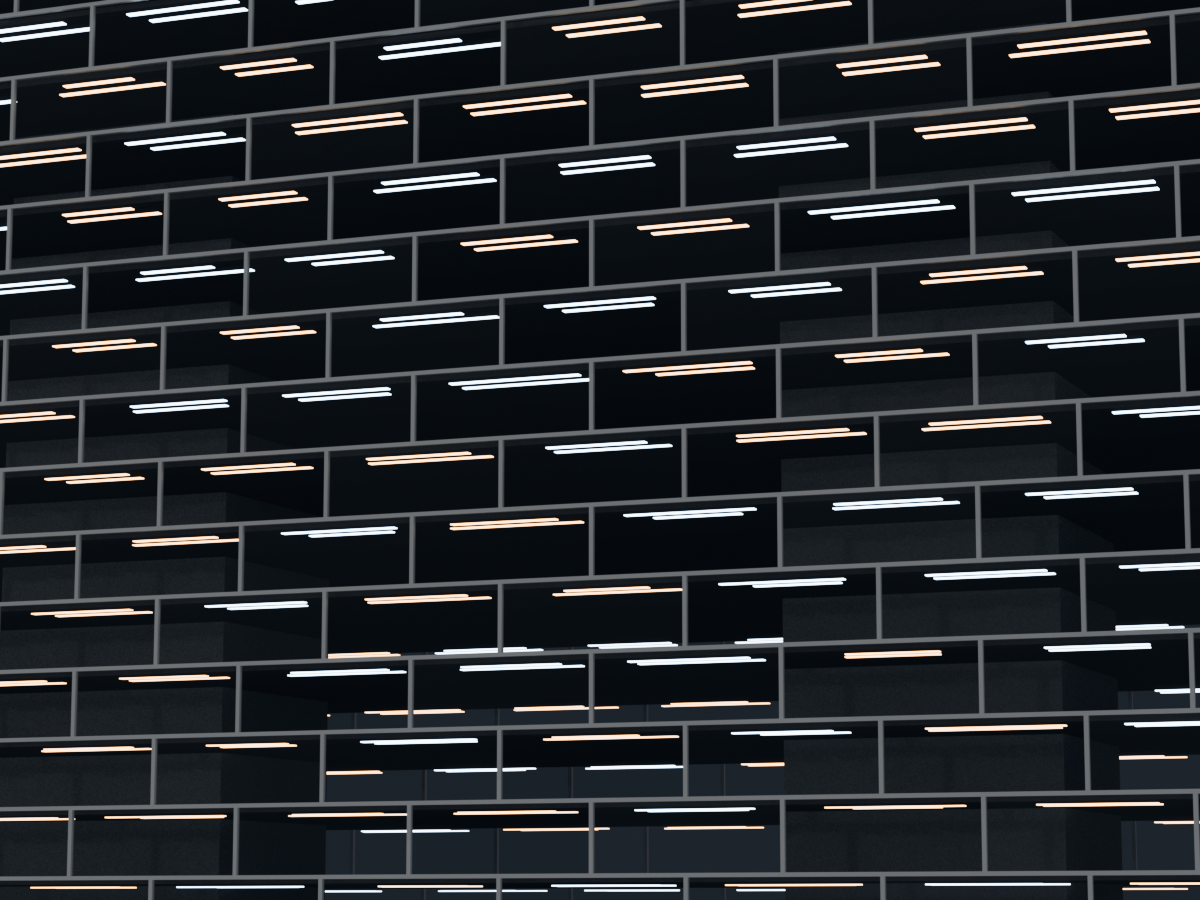
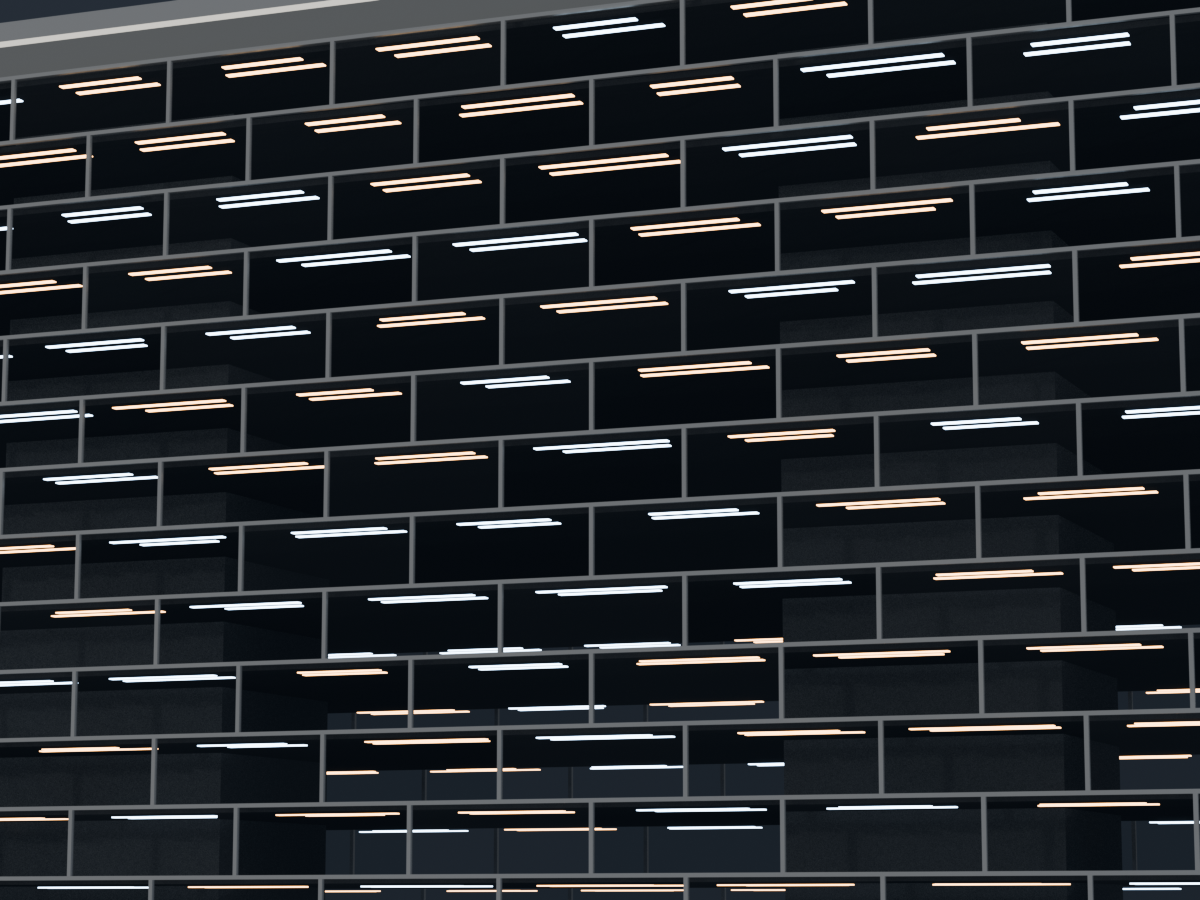
feat: shorten Stack 3 by one lattice tier
The previous change removed a row of X braces but grew the remaining tiers to
fill the fixed 190 m band. This keeps the 31.4 m tier height instead, so the
lower block ends at 158 m and everything above moves down: plaza 158-188,
apartments 188-302, flat roof at 302 m (303.6 m to the parapet). Cores and
corner posts follow the new roof.

diff --git a/verify_stack3.py b/verify_stack3.py
@@ -85,32 +85,32 @@ def main():
             "Lattice", "Plaza", "Apartment")),
         "plan is 108 m wide": abs((x1 - x0) - WIDTH) <= 2 * FACADE_RELIEF,
         "plan is 36 m deep": abs((y1 - y0) - DEPTH) <= 2 * FACADE_RELIEF,
-        "flat roof deck at 334 m": abs(z_span("Roof_Deck")[1] - 334.4) < 0.05,
-        "parapet tops at 335.6 m": abs(z1 - (334.0 + 0.4 + 1.2)) < 0.05,
+        "flat roof deck at 302 m": abs(z_span("Roof_Deck")[1] - 302.4) < 0.05,
+        "parapet tops at 303.6 m": abs(z1 - (302.0 + 0.4 + 1.2)) < 0.05,
         "slab sits on the ground": abs(z0) <= 0.02,
         "facade stays within its relief band": overhang <= FACADE_RELIEF,
-        "lattice glass 0-190 m": abs(z_span("Lattice_Glass")[0] - 0.2) < 0.05
-        and abs(z_span("Lattice_Glass")[1] - 189.8) < 0.05,
+        "lattice glass 0-158 m": abs(z_span("Lattice_Glass")[0] - 0.2) < 0.05
+        and abs(z_span("Lattice_Glass")[1] - 157.8) < 0.05,
         "lattice carries a frame and X braces": (
             present("Lattice_Frame") and present("Lattice_Braces")),
         "lattice braces start above the solid base panels": (
-            75.0 <= z_span("Lattice_Braces")[0] <= 77.0
-            and 189.3 <= z_span("Lattice_Braces")[1] <= 189.8),
+            63.0 <= z_span("Lattice_Braces")[0] <= 64.0
+            and 157.0 <= z_span("Lattice_Braces")[1] <= 157.9),
         "bottom two tiers are framed cells, not X": (
             present("Lattice_Base_Rails")
             and abs(z_span("Lattice_Base_Rails")[0] - 0.0) < 0.05
-            and abs(z_span("Lattice_Base_Rails")[1] - 76.7) < 0.8),
+            and abs(z_span("Lattice_Base_Rails")[1] - 63.9) < 0.8),
         "no parking band remains": not any(
             n.startswith("Stack3_Parking") for n in names),
         "no fin band or old base remains": not any(
             n.startswith("Stack3_Office") or n.startswith("Stack3_Hotel")
             or n.startswith("Stack3_Base") for n in names),
-        "plaza arcade 190-220 m": abs(z_span("Plaza_Trees")[0] - 190.35) < 0.1,
-        "glazed apartment bays 220-332 m": (
-            220.0 <= z_span("Apartment_Glass_S")[0] <= 220.4
-            and 331.6 <= z_span("Apartment_Glass_S")[1] <= 332.0),
-        "masonry attic closes the band at 334 m":
-        z_span("Apartment_Topband")[1] == 334.0,
+        "plaza arcade 158-188 m": abs(z_span("Plaza_Trees")[0] - 158.35) < 0.1,
+        "glazed apartment bays 188-300 m": (
+            188.0 <= z_span("Apartment_Glass_S")[0] <= 188.4
+            and 299.6 <= z_span("Apartment_Glass_S")[1] <= 300.0),
+        "attic closes the band at 302 m":
+        z_span("Apartment_Topband")[1] == 302.0,
         "nothing stands above the roof": not any(
             n.startswith("Stack3_Crown") for n in names),
         "two long-axis cores": (
@@ -118,7 +118,7 @@ def main():
             and abs(bbox([bpy.data.objects["Stack3_Structure_Cores"]])[1] - 34.0) < 0.1),
         "floor plates: 5 m below, 4 m in the apartments": (
             abs(z_span("Structure_Floors")[0] - 4.65) < 0.05
-            and abs(z_span("Structure_Floors")[1] - 332.0) < 0.05),
+            and abs(z_span("Structure_Floors")[1] - 300.0) < 0.05),
         "shallow slab reads as a slab": (WIDTH / DEPTH) > 2.6,
         "every mesh has a material": all(o.data.materials for o in meshes),
         "closed meshes": boundary_edges == 0,

diff --git a/build_stack3.py b/build_stack3.py
@@ -59,7 +59,7 @@ PREFIX = "Stack3_"
 # ---------------------------------------------------------------------------
 # Frozen envelope and program
 # ---------------------------------------------------------------------------
-ROOF = 334.0              # flat roof deck; the stepped crown is gone
+ROOF = 302.0              # flat roof deck; the stepped crown is gone
 PARAPET_H = 1.2
 HEIGHT = ROOF + 0.4 + PARAPET_H    # 335.6 to the top of the parapet
 WIDTH = 108.0
@@ -72,14 +72,14 @@ STOREY_LOW = 5.0        # base / diagrid / plaza storey: 5 m, fewer floors
 
 def floor_levels():
     """Floor plates: 5 m storeys below the apartments, 4 m within them."""
-    return ([z for z in range(5, 221, 5)]
-            + [z for z in range(224, 333, 4)])
+    return ([z for z in range(5, 186, 5)]
+            + [z for z in range(188, 301, 4)])
 BAY = 3.6               # facade mullion module on the glazed bands
 
 BANDS = (
-    ("Lattice", 0.0, 190.0),
-    ("Plaza", 190.0, 220.0),
-    ("Apartments", 220.0, 334.0),
+    ("Lattice", 0.0, 158.0),
+    ("Plaza", 158.0, 188.0),
+    ("Apartments", 188.0, 302.0),
 )
 BAND = {name: (z0, z1) for name, z0, z1 in BANDS}
 
@@ -400,7 +400,7 @@ def build_floors(mats, cols):
 
     p = Part("Structure_Cores", mats["core"], cols["Structure"])
     for sx in (-1, 1):
-        p.box((sx * 26.0, 0, 167.0), (16.0, 14.0, 334.0))
+        p.box((sx * 26.0, 0, ROOF / 2), (16.0, 14.0, ROOF))
     p.finish()
 
 
@@ -417,8 +417,8 @@ def build_cornices(mats, cols):
     p = Part("Envelope_Corners", mats["silver"], cols["Structure"])
     for sx in (-1, 1):
         for sy in (-1, 1):
-            p.box((sx * (HALF_W - 0.45), sy * (HALF_D - 0.45), 167.0),
-                  (1.1, 1.1, 334.0))
+            p.box((sx * (HALF_W - 0.45), sy * (HALF_D - 0.45), ROOF / 2),
+                  (1.1, 1.1, ROOF))
     p.finish()
 
 

diff --git a/README.md b/README.md
@@ -233,16 +233,17 @@ stack of neighbourhoods, each with its own facade language.
 The envelope follows the client direction for this generation: a little over
 100 m wide and only 36 m deep, i.e. a very flat slab. The model uses a 108 x 36 m
 plan; the crown was then dropped at the client's request, so the stack stops at
-the apartment band and the roof is completely flat at 334 m (335.6 m to the
-parapet). That is a 3.09 : 1 wide elevation - exactly the ratio of the published
-orthographic elevation sheet (321 : 992 px) - while keeping the 36 m depth.
+the apartment band and the roof is completely flat at 302 m (303.6 m to the
+parapet). That is a 2.80 : 1 wide elevation, squatter than the published sheet
+(3.09 : 1) because the lower block lost one lattice tier at the client's
+direction, but it keeps the 36 m depth.
 
 Three bands, bottom to top, each a different facade system, with metal cornices
 as the "stack" lines between them. Below the apartments the storey is 5 m, so the
-lower block carries 38 floors in that height; the apartments keep their 4 m
+lower block carries 37 floors in that height; the apartments keep their 4 m
 module and run 28 floors.
 
-- **Lattice, 0-190 m.** The whole lower block is one facade: an external frame six
+- **Lattice, 0-158 m.** The whole lower block is one facade: an external frame six
   bays wide by five tiers tall. The bottom two tiers are framed cells - six big
   glazed squares per row, closed by thick members, no X - and the upper three
   tiers carry an X brace in every cell. The frame carries vertical posts only: no added horizontal
@@ -251,15 +252,15 @@ module and run 28 floors.
   joints at all - no mullions between the panes. Every floor, here and in the
   planted level, is lit the same way as the apartments: one long cool-or-warm
   ceiling strip per room.
-- **Plaza, 190-220 m.** A planted arcade of branching tree columns and planting,
+- **Plaza, 158-188 m.** A planted arcade of branching tree columns and planting,
   open through - no interior wall - with the same room strips on its floors.
-- **Apartments, 220-334 m.** A semi-transparent glazed skin drawn as a staggered
+- **Apartments, 188-302 m.** A semi-transparent glazed skin drawn as a staggered
   block grid: every bay is one 4 m storey of glass, laid in a half-bond running
   course, and the external frame around the bays is the window pattern itself -
   there are no punched openings. Three near-identical glass tints and a lit
   ceiling in every bay keep it reading as apartments at dusk - no wall behind the
   glass. A two-metre metal fascia closes the grid at the roof.
-- **Flat roof, 334 m.** The tower stops at the apartment band: one deck slab and
+- **Flat roof, 302 m.** The tower stops at the apartment band: one deck slab and
   a 1.2 m parapet, nothing above it.
 
 The shallow plan is what makes the strata legible: with only 36 m of depth the
